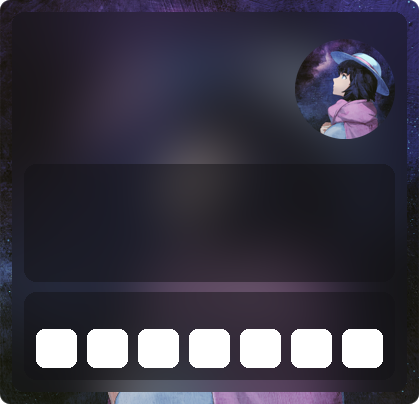
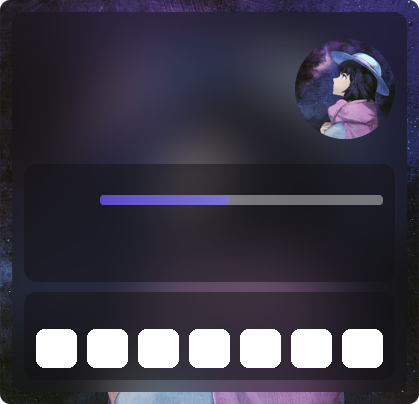
added xp bar

Changed region(s): [[0.2172, 0.4752, 0.9308, 0.505]]

diff --git a/app/utilities/drawingPlayground/utils.py b/app/utilities/drawingPlayground/utils.py
@@ -6,10 +6,8 @@ solid_fill =  (50,50,50,255)
 
 def drawBadgeBackgroundOnBackground(offset, background):
     black_region = PIL.Image.new(mode="RGBA", size=constants.badge_size, color=(255, 255, 255, 25))
-    print(offset)
     background.paste(black_region, (offset[0], offset[1]), create_rounded_rectangle_mask(black_region, 8))
     return background
-
 
 def createSemiTransparentBlackRegionOnBackground(size, offset, background):
     cropped_img = background.crop((
@@ -75,38 +73,39 @@ def ReduceOpacity(im, opacity):
     return im
 
 
-def createProgressBar(target_progressbar_width, background_size, location):
+def createProgressBar(target_size, background_size, location):
 
-    #target_progressbar_width =  140
+    target_progressbar_width =  130
+    
 
     # setting progressbar_background
     progressbar_background = Image.open('masks/progressbar_background.png')
-    progressbar_background = progressbar_background.resize((248, 8), Image.Resampling.LANCZOS)
+    progressbar_background = progressbar_background.resize((target_size[0], target_size[1]), Image.Resampling.LANCZOS)
     alpha_bg = PIL.Image.new(mode="RGBA", size=progressbar_background.size, color=(0, 0, 0, 0))
     alpha_bg.paste(progressbar_background, (0, 0))
 
     # getting progressbar_full and rounding it to mask
     progressbar_full = Image.open('masks/progressbar_full.png')
     progressbar_full = progressbar_full.convert('RGBA')
-    progressbar_full = progressbar_full.resize((248,8), Image.Resampling.LANCZOS)
+    progressbar_full = progressbar_full.resize((target_size[0],target_size[1]), Image.Resampling.LANCZOS)
 
     progressbar_mask = Image.open('masks/progressbar_mask.png').convert('L')
-    progressbar_mask = progressbar_mask.resize((248,8), Image.Resampling.LANCZOS)
+    progressbar_mask = progressbar_mask.resize((target_size[0],target_size[1]), Image.Resampling.LANCZOS)
     output = ImageOps.fit(progressbar_full, progressbar_mask.size, centering=(0.5, 0.5))
     output.putalpha(progressbar_mask)
     progressbar_full = output
 
-    alpha_rectangle = PIL.Image.new(mode="RGBA", size=(248-target_progressbar_width, 8), color=(0, 0, 0, 0))
+    alpha_rectangle = PIL.Image.new(mode="RGBA", size=(target_size[0]-target_progressbar_width, target_size[1]), color=(0, 0, 0, 0))
     progressbar_full.paste(alpha_rectangle, (target_progressbar_width, 0))
 
     # creating head for gradient
-    progressbar_mask_head = progressbar_mask.crop((248-8, 0, 248, 8))
-    progressbar_head = progressbar_full.crop((target_progressbar_width-8, 0, target_progressbar_width, 8))
+    progressbar_mask_head = progressbar_mask.crop((target_size[0]-target_size[1], 0, target_size[0], target_size[1]))
+    progressbar_head = progressbar_full.crop((target_progressbar_width-target_size[1], 0, target_progressbar_width, target_size[1]))
     output = ImageOps.fit(progressbar_head, progressbar_mask_head.size, centering=(0.5, 0.5))
     output.putalpha(progressbar_mask_head)
     progressbar_head = output
 
-    progressbar_full.paste(progressbar_head, (target_progressbar_width-8, 0))
+    progressbar_full.paste(progressbar_head, (target_progressbar_width-target_size[1], 0))
 
     alpha_bg = Image.alpha_composite(alpha_bg, progressbar_full)
     alpha_bg_bg = PIL.Image.new(mode="RGBA", size=background_size, color=(0, 0, 0, 0))

diff --git a/app/utilities/drawingPlayground/master.py b/app/utilities/drawingPlayground/master.py
@@ -76,15 +76,18 @@ def drawProfileCard(avatar_url, nickname, discriminator, labmem_number, level, r
     mask = Image.new('L', bigsize, 0)
     draw = ImageDraw.Draw(mask)
     draw.ellipse((0, 0) + bigsize, fill=255)
-    mask = mask.resize(constants.pfp_circle_size, Image.Resampling.LANCZOS)
 
+    mask = mask.resize(constants.pfp_circle_size, Image.Resampling.LANCZOS)
     pfp_circle = ImageOps.fit(pfp_original, mask.size, centering=(0.5, 0.5))
     pfp_circle.putalpha(mask)
 
     alpha_bg = PIL.Image.new(mode="RGBA", size=background.size, color=(0, 0, 0, 0))
     alpha_bg.paste(pfp_circle, constants.pfp_circle_offset)
-
     background = Image.alpha_composite(background, alpha_bg)
+
+    # progress bar
+    progress_bar_xp = createProgressBar(constants.xp_bar_size, background.size, constants.xp_bar_offset)
+    background = Image.alpha_composite(background, progress_bar_xp)
 
     # merging full_background (the one with alpha around it) with background (the one with all card contents in it)
     profile_card = background

diff --git a/app/utilities/drawingPlayground/constants.py b/app/utilities/drawingPlayground/constants.py
@@ -10,6 +10,7 @@ black_region_1_size = (371, 118)
 black_region_2_size = (371, 88)
 badge_size = (41,39)
 pfp_circle_size = (100,100)
+xp_bar_size = (283, 10)
 
 # OFFSETS
 blurry_background_offset = (12,12)
@@ -18,6 +19,7 @@ black_region_2_offset = (24, 292)
 first_badge_offset = (36, 329)
 badges_spacing = 10
 pfp_circle_offset = (295,39)
+xp_bar_offset = (100, 195)
 
 # COLORS
 
